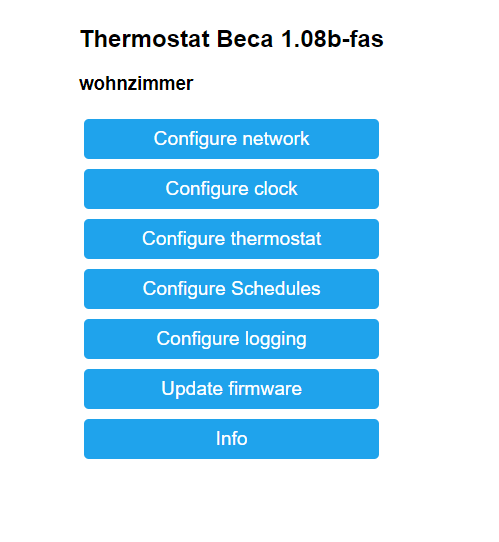
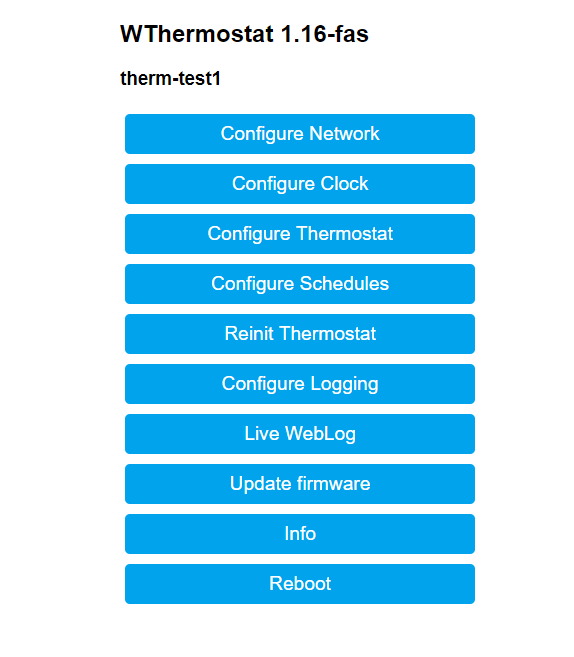
v1.16-fas

diff --git a/WThermostat/WBecaDevice.h b/WThermostat/WBecaDevice.h
@@ -642,7 +642,7 @@ public:
 		page->printf_P(HTTP_COMBOBOX_END);
 
 		// Calculated Heating 
-		page->printf_P(HTTP_TEXT_FIELD_INTEGER, F("Relay State Calculation: Deadzone/Deadband-Temperature (set here same the same value as configured at Thermostat-Setup)"), "dz", 1, 1);
+		page->printf_P(HTTP_TEXT_FIELD_INTEGER, F("Relay State Calculation: Deadzone/Deadband-Temperature (set here the same same value as configured at Thermostat-Setup)"), "dz", 1, 1);
 
 		// FloorSensor 
 		page->printf_P(HTTP_CHECKBOX_OPTION, F("Floor Sensor enabled"),

diff --git a/WThermostat/WThermostat.cpp b/WThermostat/WThermostat.cpp
@@ -7,7 +7,7 @@
 #include "WLogDevice.h"
 #include "../lib/WAdapter/WAdapter/WNetworkDevice.h"
 #endif
-#define APPLICATION "Thermostat"
+#define APPLICATION "WThermostat"
 #ifndef VERSION
 #define VERSION "undefined" // gets defined in commandline
 #endif

diff --git a/README.md b/README.md
@@ -34,11 +34,10 @@ Also also sold through Moes or Qiumi.
 
 * No Cloud dependencies!
 * Enables thermostat to communicate via MQTT and/or Mozilla WebThings
-* Autodiscovery for Home Assistant via MQTT _(fas)_
 * Autodiscovery for WebThings via mDNS
 * Configuration of connection, device parameters and schedules via web interface
-* Provides NTP, time zone handling and Daylight-Saving-Calculation _(fas)_ to set the clock of thermostat
-* Provides Fallback to Access Point mode if requested using panel-buttons _(fas)_
+* Provides NTP, time zone handling and Daylight-Saving-Calculation to set the clock of thermostat
+* Provides Fallback to Access Point mode if requested using panel-buttons
 * Reading and setting of all parameters via MQTT
 * Reading and setting of main parameters via WebThings
 * Only BHT-002-GxLW: actualFloorTemperature (external temperature sensor)
@@ -46,7 +45,20 @@ Also also sold through Moes or Qiumi.
 * Reading and setting of time schedules via MQTT
 * Reading and setting of Schedules via Web-GUI
 * Automatic switching back to temperature-scheduling from manual mode next schedule interval (optional)
-* Logging to MQTT _(fas)_
+* **FAS-Fork enhancements**
+  * RelayStateCalculation - shows current state of heating/cooling - without soldering _(fas)_
+  * Autodiscovery for Home Assistant via MQTT _(fas)_
+  * Logging to MQTT _(fas)_
+  * Logging to WebBrowser using Websockets _(fas)_
+  * Captive Portal support for setup _(fas)_
+  * show password in cleartext for setup _(fas)_
+  * TimeBug Workaround (precicion fixed to 1 sec) _(fas)_
+  * All State Information at status page _(fas)_
+  * GitPod-Support _(fas)_
+  * PlatformIO Direct OTA-Upload to device _(fas)_
+  * Eco-Mode fixed to 20 degrees _(fas)_
+  * RSSI Information (Info-Page, MQTT and Home-Assistant Support) _(fas)_
+  * More detailed Documentation _(fas)_
 
 _(fas)_: Only available in -fas version
 
@@ -135,16 +147,9 @@ Schedule Screen:
 
 ![setup_schedules](docs/images/Setup_Schedules.png)  
 
-## Integration in WebThings
+Live WebLog Screen:
 
-Since version 0.96 this firmware supports Mozilla WebThings directly. With webthings you can control the thermostat via the Gateway - inside and also outside of your home network. No clunky VPN, dynDNS solutions needed to access your home devices. I recommend to run the gateway in parallel to an MQTT server and for example Node-Red. Via MQTT you can control the thermostat completely and logic can be done by Node-Red. WebThings is used for outside control of main parameters.  
-Add the device to the gateway via '+' icon. After that you have the new nice and shiny icon in the dashboard:  
-![webthing_icon](docs/images/Webthing_Icon.png)  
-The icon shows the actual temperature and heating state.
-
-There is also a detailed view available:
-
-![webthing](docs/images/Webthing_Complete.png)  
+![weblog_screen](docs/images/weblog.png)  
 
 ## Integration in Home Assistant
 
@@ -320,6 +325,17 @@ climate:
 ```
 
 See <https://www.home-assistant.io/integrations/climate.mqtt/> for more information.
+
+## Integration in WebThings
+
+Since version 0.96 this firmware supports Mozilla WebThings directly. With webthings you can control the thermostat via the Gateway - inside and also outside of your home network. No clunky VPN, dynDNS solutions needed to access your home devices. I recommend to run the gateway in parallel to an MQTT server and for example Node-Red. Via MQTT you can control the thermostat completely and logic can be done by Node-Red. WebThings is used for outside control of main parameters.  
+Add the device to the gateway via '+' icon. After that you have the new nice and shiny icon in the dashboard:  
+![webthing_icon](docs/images/Webthing_Icon.png)  
+The icon shows the actual temperature and heating state.
+
+There is also a detailed view available:
+
+![webthing](docs/images/Webthing_Complete.png)  
 
 ## Device-Functions
 

diff --git a/Changes.md b/Changes.md
@@ -1,23 +1,28 @@
 # Changelog
 
-## Version 1.16-fas (BETA)
+## Version 1.16-fas
 
-* ecoMode temperature Fixed to 20 degrees (not changeable in MCU) #32
-* WebThings autodiscovery fix
-* IceBucketChallenge: Support for negative temperatures
-* Apple Captive Portal support
-* WiFi RSS Value property (/things/network/properties/rssi) #24
-* Case Insensitive true/false (HomeAssistant Uses "True" if boolean values are enabled) #32
-* Now thermostat and clock are also showing their information on Info-page
-* Real Support for BAC-002 on Home-Assistant
-  * HASS Climate Autodiscovery BAC-002
+* NewFeature: RelayStateCalculation - shows current state of heating/cooling
+* NewFeature: WLAN Signal Level (RSSI) visible (MQTT, Info-Page, HASS)
+* NewFeature: Full Support for BAC-002 with Home-Assistant autodiscovery
+* HASS Climate Autodiscovery BAC-002
   * removed 'auto' from Read/Write-Property ``mode`` (not supported by device). Valid Modes: ``["heat","cool","fan_only","off"]``
   * Read/Write-Property ``holdState`` with possible values ``["scheduler", "manual", "away"]`` - switches between Scheduler, Manual and Eco-Mode
   * Fixed fanMode behaviour (auto-mode now working, setting fan does not switches to fan_only)
   * Fixed manual configuration snippet in README.md
-* Typos
-* Gitpd support (<https://github.com/fashberg/WThermostatBeca#cloud-development-using-gitpod>)
-* Travis CI support (<https://travis-ci.org/github/fashberg/WThermostatBeca>)
+* NewFeature: Live WebLog in Browser (WebSockets)
+* NewFeature: Workaround for imprecise clock on LCD
+* NewFeature: All Information on Info-Page
+* Develpment: Gitpd support (<https://github.com/fashberg/WThermostatBeca#cloud-development-using-gitpod>)
+* Develpment: Travis CI support (<https://travis-ci.org/github/fashberg/WThermostatBeca>)
+* Develpment: platformio_override.ini documentation and sample
+* Small Fixes/Enhancements
+  * ecoMode temperature Fixed to 20 degrees (not changeable in MCU) #32
+  * WebThings autodiscovery fix
+  * IceBucketChallenge: Support for negative temperatures
+  * Apple Captive Portal support
+  * Case Insensitive true/false (HomeAssistant Uses "True" if boolean values are enabled) #32
+  * Typos
 
 ## Version 1.15-fas
 
